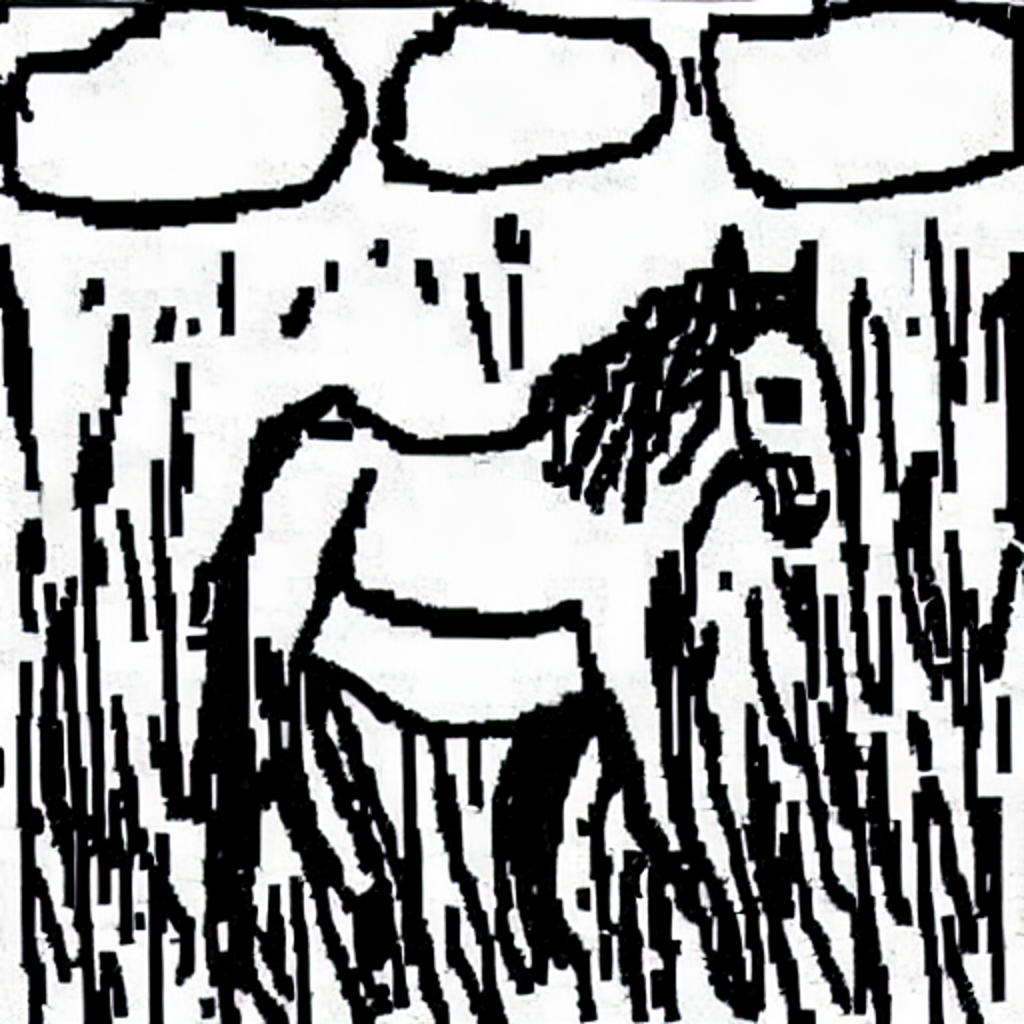
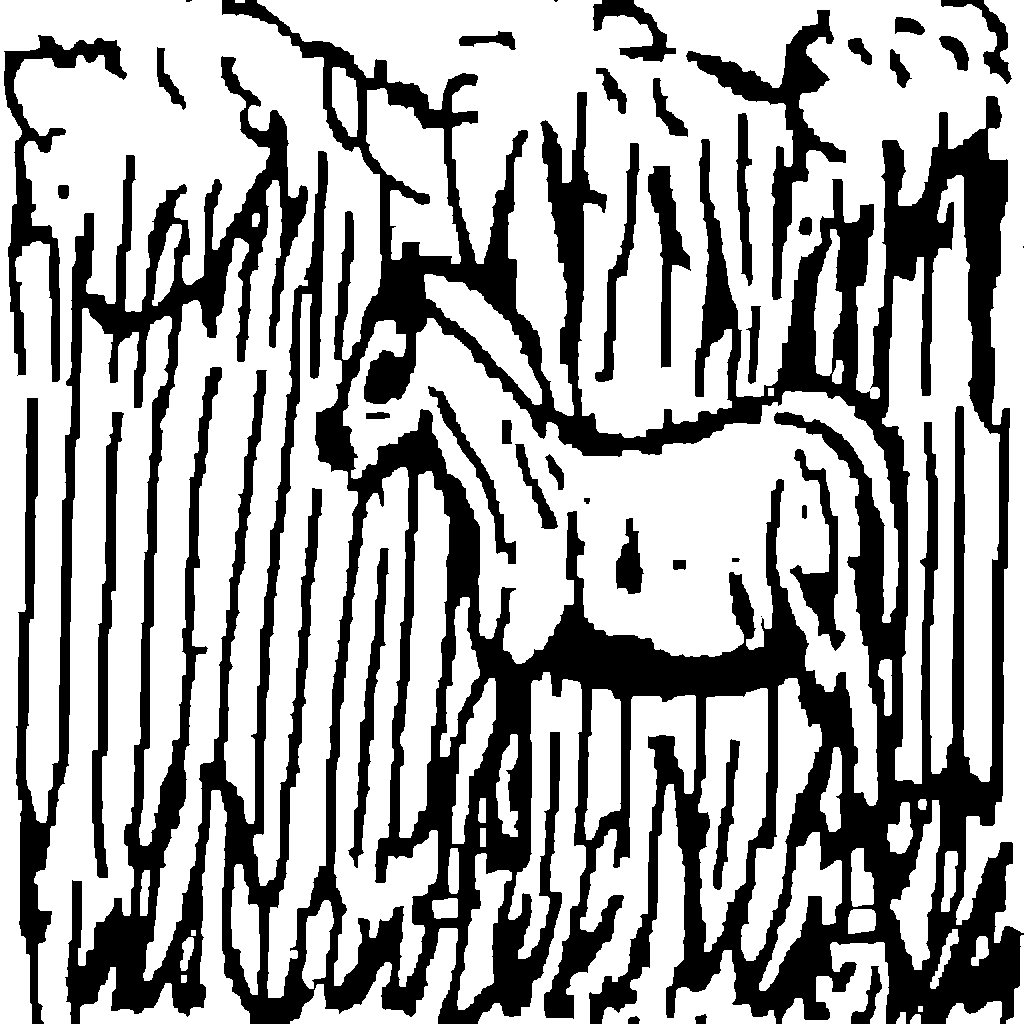
Add clean sketch function and put models outside function

diff --git a/main.py b/main.py
@@ -10,13 +10,34 @@ import os
 if not os.path.exists('generation'):
     os.makedirs(f'generation')
 
+controlnet = ControlNetModel.from_pretrained("diffusers/controlnet-canny-sdxl-1.0", torch_dtype=torch.float16)
+vae = AutoencoderKL.from_pretrained("madebyollin/sdxl-vae-fp16-fix", torch_dtype=torch.float16)
+pipe_sdxl_controlnet = StableDiffusionXLControlNetPipeline.from_pretrained("stabilityai/stable-diffusion-xl-base-1.0", controlnet=controlnet, vae=vae, torch_dtype=torch.float16)
+pipe_sdxl_controlnet.enable_model_cpu_offload()
+
+pipe_refiner = StableDiffusionXLImg2ImgPipeline.from_pretrained("stabilityai/stable-diffusion-xl-refiner-1.0", torch_dtype=torch.float16, variant="fp16", use_safetensors=True)
+pipe_refiner.to("cuda")
+
+pipe = DiffusionPipeline.from_pretrained("CompVis/stable-diffusion-v1-4", safety_checker = None, requires_safety_checker = False)
+pipe.load_lora_weights("MdEndan/stable-diffusion-lora-fine-tuned")
+pipe = pipe.to("cuda")
+
+def clean_sketch(img):
+    img = cv2.cvtColor(img, cv2.COLOR_RGB2GRAY)
+    img = (255-img) # inverse black and white
+    kernel = np.ones((5,5),np.uint8)
+    erosion = cv2.erode(img,kernel,iterations = 1)  # Thinner objects
+    ret3,erosion = cv2.threshold(erosion,0,255,cv2.THRESH_BINARY+cv2.THRESH_OTSU)  # clean noise
+    erosion = (255-erosion) # inverse black and white
+    img_eroded = cv2.cvtColor(erosion, cv2.COLOR_GRAY2RGB)
+    return img_eroded
+
 def text_2_sketch(prompt, steps_slider_sketch):
 
-    pipe = DiffusionPipeline.from_pretrained("CompVis/stable-diffusion-v1-4", safety_checker = None, requires_safety_checker = False)
-    pipe.load_lora_weights("MdEndan/stable-diffusion-lora-fine-tuned")
-    pipe = pipe.to("cuda")
     images = pipe(prompt, num_inference_steps= steps_slider_sketch) 
     image = images.images[0].resize((1024,1024))
+    image.save("generation/blurry_sketch.png")
+    image = Image.fromarray(clean_sketch(np.asarray(image)))
     image.save("generation/sketch.png")
     return image
 
@@ -36,20 +57,14 @@ def sketch_2_image(init_prompt, positive_prompt, negative_prompt, strength, step
     
     #Load Model
     controlnet_conditioning_scale = 0.5  # recommended for good generalization
-    controlnet = ControlNetModel.from_pretrained("diffusers/controlnet-canny-sdxl-1.0", torch_dtype=torch.float16)
-    vae = AutoencoderKL.from_pretrained("madebyollin/sdxl-vae-fp16-fix", torch_dtype=torch.float16)
-    pipe = StableDiffusionXLControlNetPipeline.from_pretrained("stabilityai/stable-diffusion-xl-base-1.0", controlnet=controlnet, vae=vae, torch_dtype=torch.float16)
-    pipe.enable_model_cpu_offload()
     
     # Generate Image from sketch
-    image = pipe(prompt, controlnet_conditioning_scale=controlnet_conditioning_scale, image=canny_image).images[0]
+    image = pipe_sdxl_controlnet(prompt, controlnet_conditioning_scale=controlnet_conditioning_scale, image=canny_image).images[0]
     image.save("generation/img_generated.png")
     
     # Refine Image to have better image quality and consistencypipe_refiner = StableDiffusionXLImg2ImgPipeline.from_pretrained("stabilityai/stable-diffusion-xl-refiner-1.0", torch_dtype=torch.float16, variant="fp16", use_safetensors=True)
-    pipe_refiner = StableDiffusionXLImg2ImgPipeline.from_pretrained("stabilityai/stable-diffusion-xl-refiner-1.0", torch_dtype=torch.float16, variant="fp16", use_safetensors=True)
-    pipe_refiner.to("cuda")
     image = pipe_refiner(prompt, image=image, negative_prompt=negative_prompt, strength=0.2).images[0]
-    image.save(f"generation/img_refined_{}.png")
+    image.save(f"generation/img_refined_{name_file}.png")
     return image
 
 def add_object(name, prompt):
@@ -78,7 +93,7 @@ with gr.Blocks() as demo:
             step=0.1,
         )
         additional_positive = gr.Textbox(
-            value = "realistic picture, best quality, 4k, 8k, ultra highres, raw photo in hdr, sharp focus",
+            value = "character, realistic picture, best quality, 4k, 8k, ultra highres, raw photo in hdr, sharp focus",
             label="Additional positive",
             info="Use this to insert custom styles or elements to the background",
             interactive=True,
